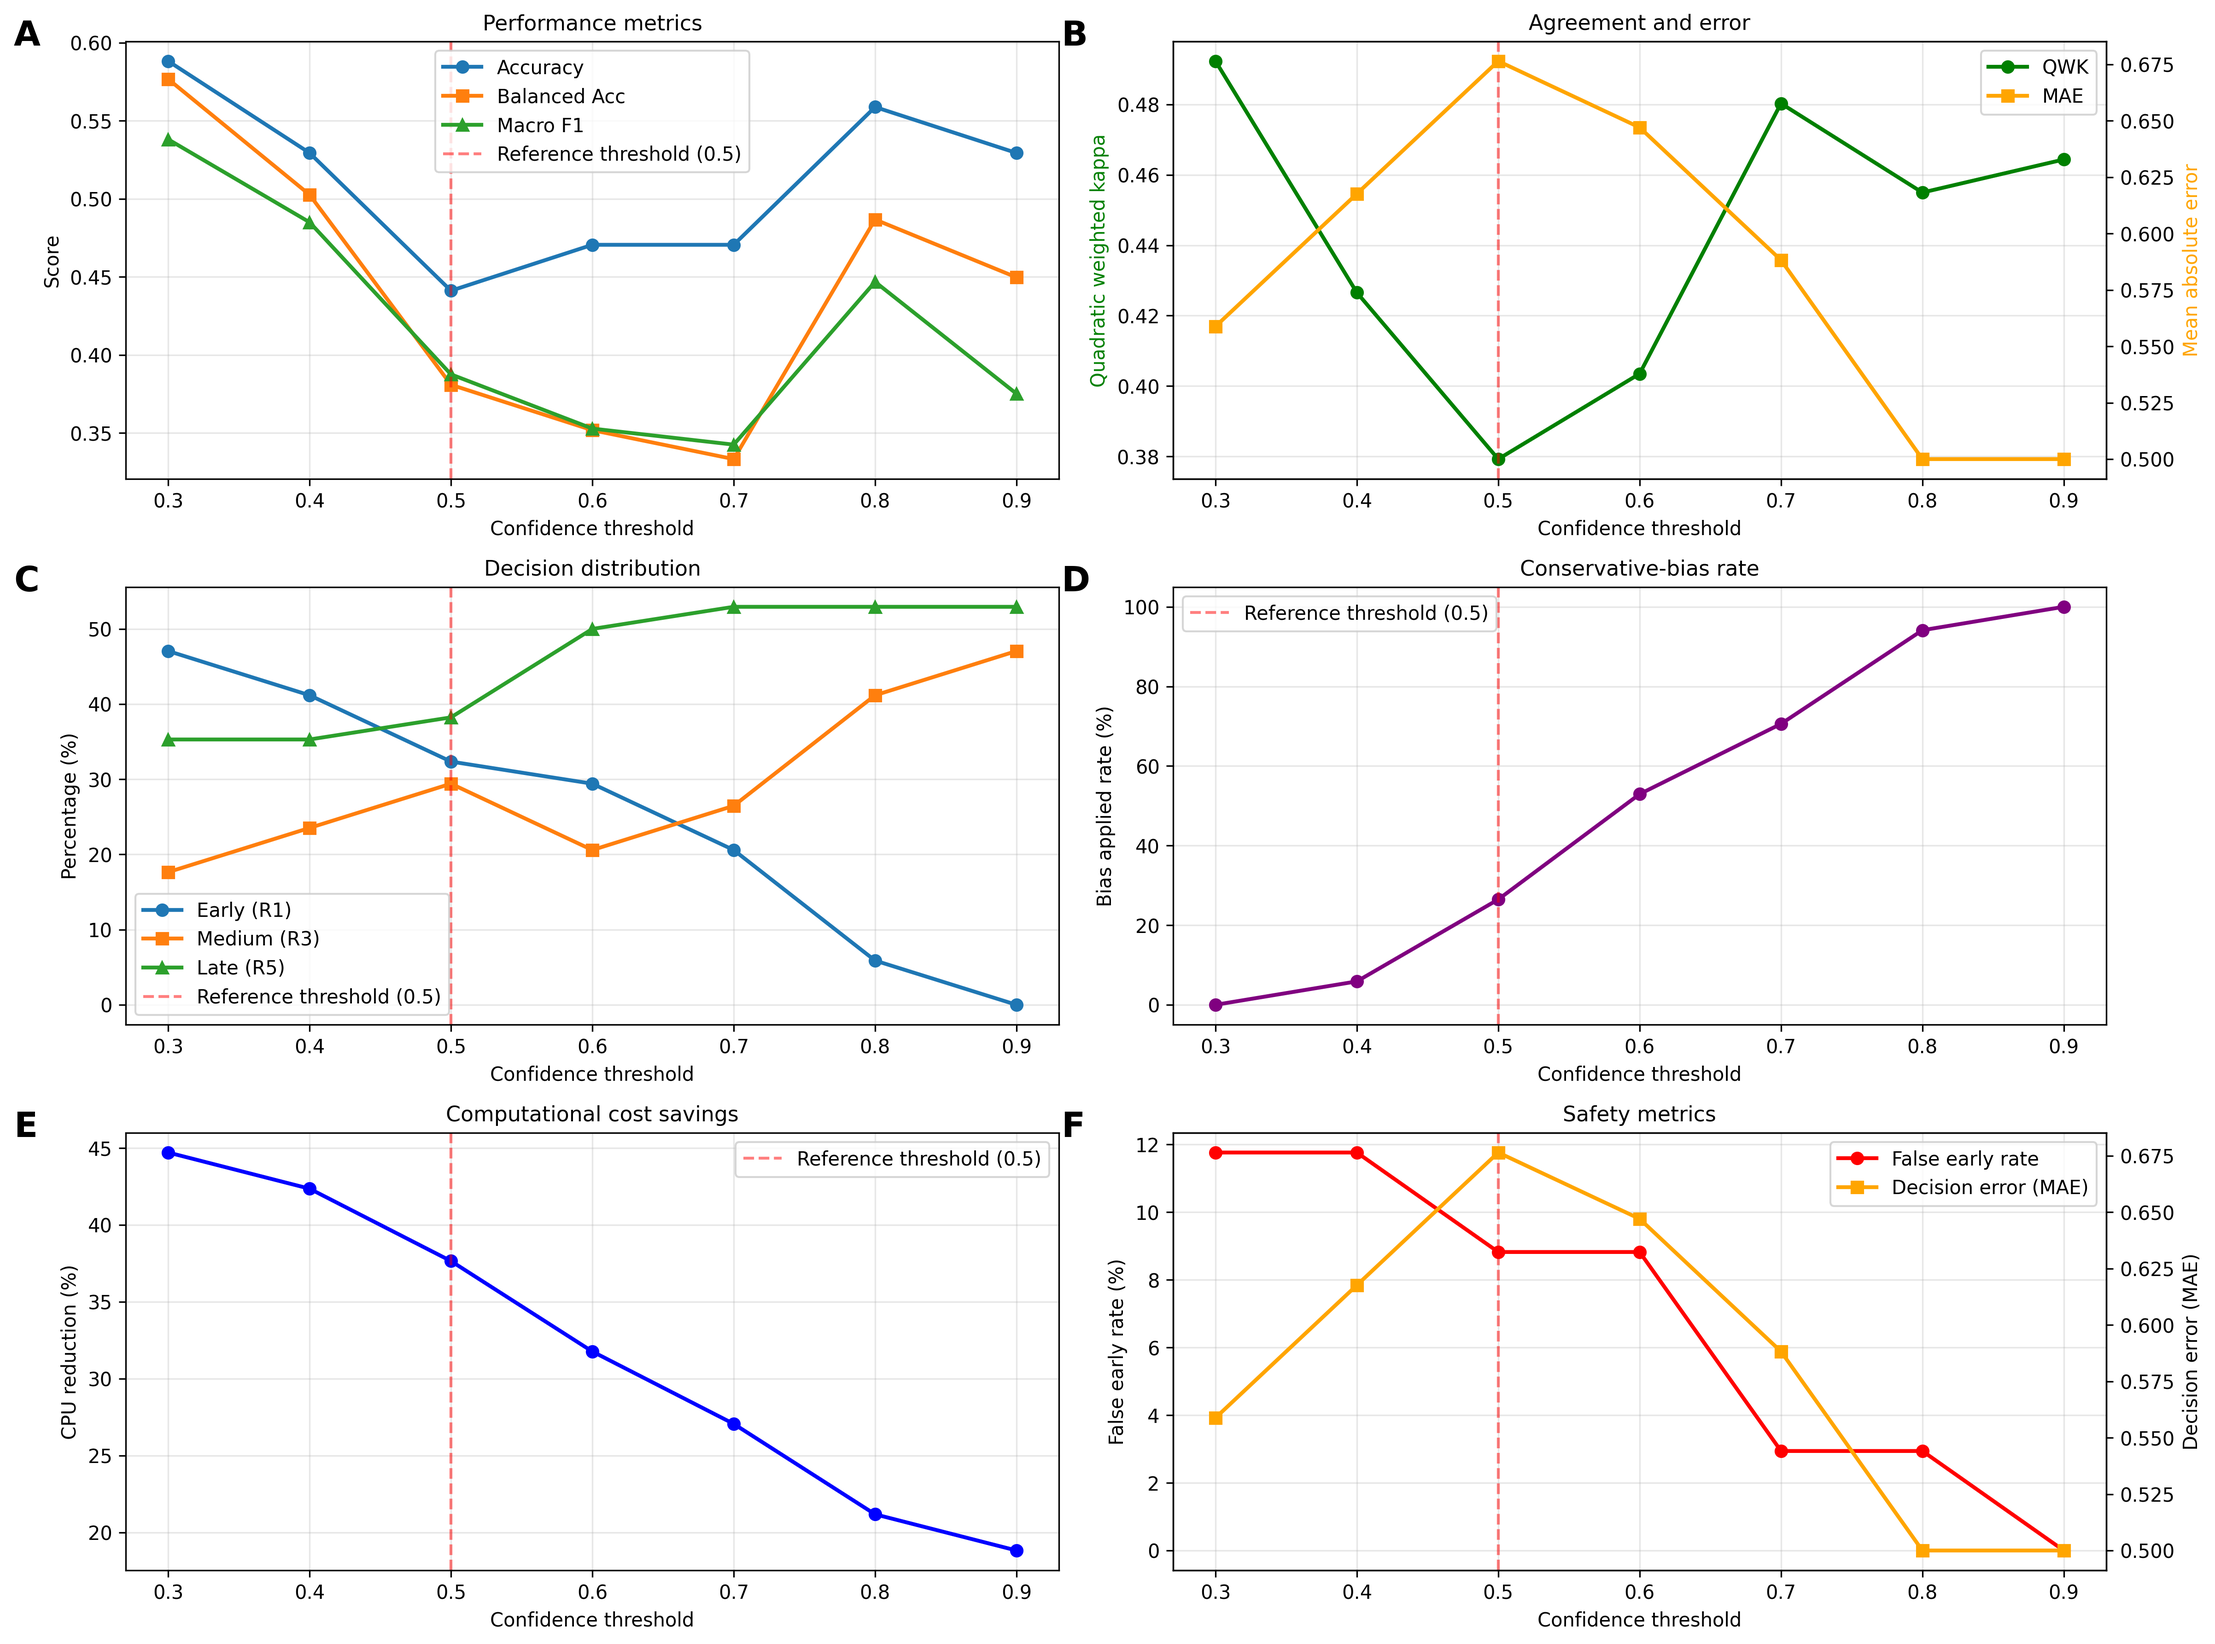
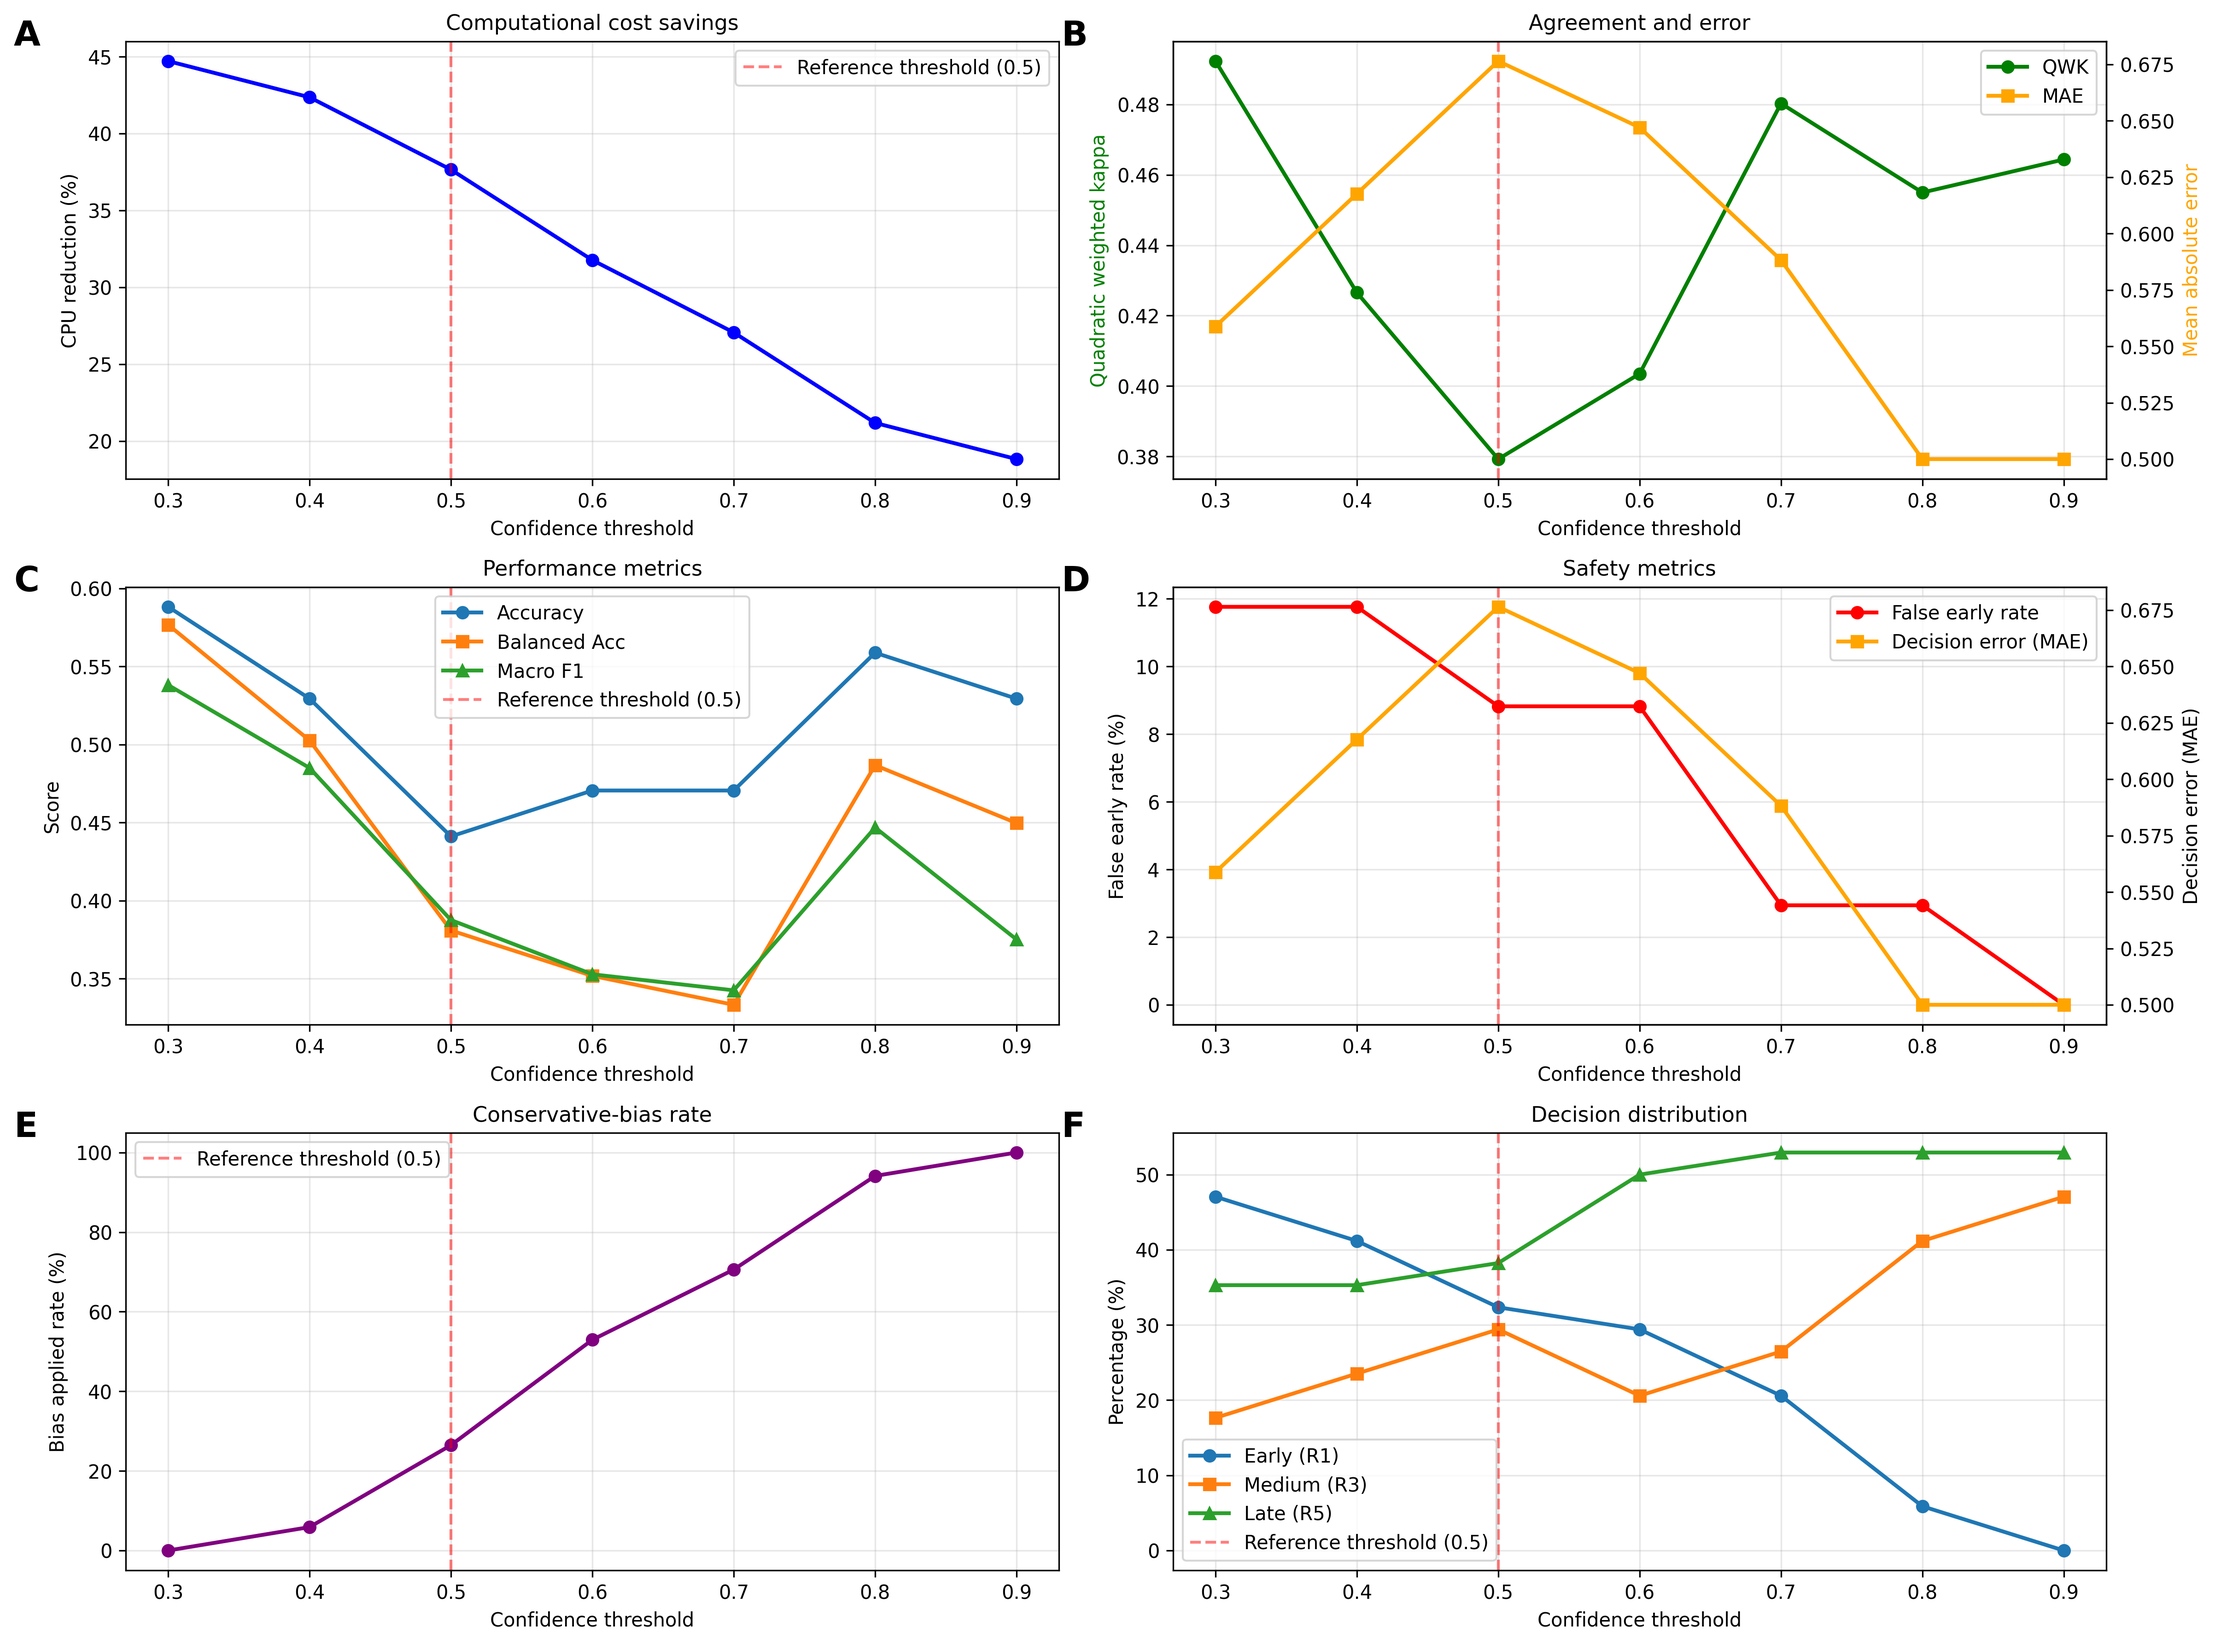
commit updatd

diff --git a/10_sensitivity_analysis.py b/10_sensitivity_analysis.py
@@ -291,18 +291,17 @@ def evaluate_threshold(
         false_negative_cost=safety_metrics["false_negative_cost"],
     )
 
-
 def plot_sensitivity_analysis(results_df: pd.DataFrame):
-    """Create visualization of threshold sensitivity (panels A–F)."""
+    """Create threshold-sensitivity plots in manuscript order (A–F)."""
     PLOTS_DIR.mkdir(parents=True, exist_ok=True)
 
     fig, axes = plt.subplots(3, 2, figsize=(16, 12))
 
-    # A. Performance metrics
+    # -------------------------------------------------------------------------
+    # A. Computational cost savings
+    # -------------------------------------------------------------------------
     ax = axes[0, 0]
-    ax.plot(results_df["threshold"], results_df["accuracy"], "o-", label="Accuracy", linewidth=2)
-    ax.plot(results_df["threshold"], results_df["balanced_accuracy"], "s-", label="Balanced Acc", linewidth=2)
-    ax.plot(results_df["threshold"], results_df["macro_f1"], "^-", label="Macro F1", linewidth=2)
+    ax.plot(results_df["threshold"], results_df["cpu_reduction_pct"], "o-", color="blue", linewidth=2)
     ax.axvline(
         x=REFERENCE_THRESHOLD,
         color="red",
@@ -311,14 +310,16 @@ def plot_sensitivity_analysis(results_df: pd.DataFrame):
         label=f"Reference threshold ({REFERENCE_THRESHOLD})"
     )
     ax.set_xlabel("Confidence threshold")
-    ax.set_ylabel("Score")
-    ax.set_title("Performance metrics", fontsize=11)
+    ax.set_ylabel("CPU reduction (%)")
+    ax.set_title("Computational cost savings", fontsize=11)
     ax.legend()
     ax.grid(True, alpha=0.3)
     ax.text(-0.12, 1.05, "A", transform=ax.transAxes,
             fontsize=18, fontweight="bold", va="top")
 
-    # B. QWK and MAE
+    # -------------------------------------------------------------------------
+    # B. Agreement and error
+    # -------------------------------------------------------------------------
     ax = axes[0, 1]
     ax2 = ax.twinx()
     l1 = ax.plot(results_df["threshold"], results_df["qwk"], "o-", color="green", label="QWK", linewidth=2)
@@ -335,11 +336,13 @@ def plot_sensitivity_analysis(results_df: pd.DataFrame):
     ax.text(-0.12, 1.05, "B", transform=ax.transAxes,
             fontsize=18, fontweight="bold", va="top")
 
-    # C. Decision distribution
+    # -------------------------------------------------------------------------
+    # C. Performance metrics
+    # -------------------------------------------------------------------------
     ax = axes[1, 0]
-    ax.plot(results_df["threshold"], results_df["pct_early"], "o-", label="Early (R1)", linewidth=2)
-    ax.plot(results_df["threshold"], results_df["pct_medium"], "s-", label="Medium (R3)", linewidth=2)
-    ax.plot(results_df["threshold"], results_df["pct_late"], "^-", label="Late (R5)", linewidth=2)
+    ax.plot(results_df["threshold"], results_df["accuracy"], "o-", label="Accuracy", linewidth=2)
+    ax.plot(results_df["threshold"], results_df["balanced_accuracy"], "s-", label="Balanced Acc", linewidth=2)
+    ax.plot(results_df["threshold"], results_df["macro_f1"], "^-", label="Macro F1", linewidth=2)
     ax.axvline(
         x=REFERENCE_THRESHOLD,
         color="red",
@@ -348,51 +351,17 @@ def plot_sensitivity_analysis(results_df: pd.DataFrame):
         label=f"Reference threshold ({REFERENCE_THRESHOLD})"
     )
     ax.set_xlabel("Confidence threshold")
-    ax.set_ylabel("Percentage (%)")
-    ax.set_title("Decision distribution", fontsize=11)
+    ax.set_ylabel("Score")
+    ax.set_title("Performance metrics", fontsize=11)
     ax.legend()
     ax.grid(True, alpha=0.3)
     ax.text(-0.12, 1.05, "C", transform=ax.transAxes,
             fontsize=18, fontweight="bold", va="top")
 
-    # D. Conservative bias rate
+    # -------------------------------------------------------------------------
+    # D. Safety metrics
+    # -------------------------------------------------------------------------
     ax = axes[1, 1]
-    ax.plot(results_df["threshold"], results_df["bias_applied_rate"], "o-", color="purple", linewidth=2)
-    ax.axvline(
-        x=REFERENCE_THRESHOLD,
-        color="red",
-        linestyle="--",
-        alpha=0.5,
-        label=f"Reference threshold ({REFERENCE_THRESHOLD})"
-    )
-    ax.set_xlabel("Confidence threshold")
-    ax.set_ylabel("Bias applied rate (%)")
-    ax.set_title("Conservative-bias rate", fontsize=11)
-    ax.legend()
-    ax.grid(True, alpha=0.3)
-    ax.text(-0.12, 1.05, "D", transform=ax.transAxes,
-            fontsize=18, fontweight="bold", va="top")
-
-    # E. CPU reduction
-    ax = axes[2, 0]
-    ax.plot(results_df["threshold"], results_df["cpu_reduction_pct"], "o-", color="blue", linewidth=2)
-    ax.axvline(
-        x=REFERENCE_THRESHOLD,
-        color="red",
-        linestyle="--",
-        alpha=0.5,
-        label=f"Reference threshold ({REFERENCE_THRESHOLD})"
-    )
-    ax.set_xlabel("Confidence threshold")
-    ax.set_ylabel("CPU reduction (%)")
-    ax.set_title("Computational cost savings", fontsize=11)
-    ax.legend()
-    ax.grid(True, alpha=0.3)
-    ax.text(-0.12, 1.05, "E", transform=ax.transAxes,
-            fontsize=18, fontweight="bold", va="top")
-
-    # F. Safety metrics
-    ax = axes[2, 1]
     ax2 = ax.twinx()
     l1 = ax.plot(
         results_df["threshold"],
@@ -412,12 +381,54 @@ def plot_sensitivity_analysis(results_df: pd.DataFrame):
     )
     ax.axvline(x=REFERENCE_THRESHOLD, color="red", linestyle="--", alpha=0.5)
     ax.set_xlabel("Confidence threshold")
-    ax.set_ylabel("False early rate (%)", color="black")
-    ax2.set_ylabel("Decision error (MAE)", color="black")
+    ax.set_ylabel("False early rate (%)")
+    ax2.set_ylabel("Decision error (MAE)")
     ax.set_title("Safety metrics", fontsize=11)
     lns = l1 + l2
     labs = [l.get_label() for l in lns]
     ax.legend(lns, labs, loc="best")
+    ax.grid(True, alpha=0.3)
+    ax.text(-0.12, 1.05, "D", transform=ax.transAxes,
+            fontsize=18, fontweight="bold", va="top")
+
+    # -------------------------------------------------------------------------
+    # E. Conservative-bias rate
+    # -------------------------------------------------------------------------
+    ax = axes[2, 0]
+    ax.plot(results_df["threshold"], results_df["bias_applied_rate"], "o-", color="purple", linewidth=2)
+    ax.axvline(
+        x=REFERENCE_THRESHOLD,
+        color="red",
+        linestyle="--",
+        alpha=0.5,
+        label=f"Reference threshold ({REFERENCE_THRESHOLD})"
+    )
+    ax.set_xlabel("Confidence threshold")
+    ax.set_ylabel("Bias applied rate (%)")
+    ax.set_title("Conservative-bias rate", fontsize=11)
+    ax.legend()
+    ax.grid(True, alpha=0.3)
+    ax.text(-0.12, 1.05, "E", transform=ax.transAxes,
+            fontsize=18, fontweight="bold", va="top")
+
+    # -------------------------------------------------------------------------
+    # F. Decision distribution
+    # -------------------------------------------------------------------------
+    ax = axes[2, 1]
+    ax.plot(results_df["threshold"], results_df["pct_early"], "o-", label="Early (R1)", linewidth=2)
+    ax.plot(results_df["threshold"], results_df["pct_medium"], "s-", label="Medium (R3)", linewidth=2)
+    ax.plot(results_df["threshold"], results_df["pct_late"], "^-", label="Late (R5)", linewidth=2)
+    ax.axvline(
+        x=REFERENCE_THRESHOLD,
+        color="red",
+        linestyle="--",
+        alpha=0.5,
+        label=f"Reference threshold ({REFERENCE_THRESHOLD})"
+    )
+    ax.set_xlabel("Confidence threshold")
+    ax.set_ylabel("Percentage (%)")
+    ax.set_title("Decision distribution", fontsize=11)
+    ax.legend()
     ax.grid(True, alpha=0.3)
     ax.text(-0.12, 1.05, "F", transform=ax.transAxes,
             fontsize=18, fontweight="bold", va="top")
@@ -427,7 +438,6 @@ def plot_sensitivity_analysis(results_df: pd.DataFrame):
     plt.savefig(output_path, dpi=300, bbox_inches="tight")
     logger.info(f"Saved plot to {output_path}")
     plt.close()
-
 
 # -----------------------------------------------------------------------------
 # Main
